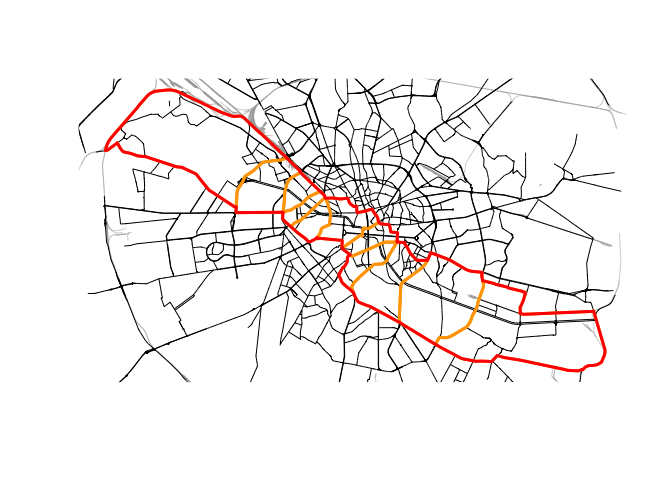
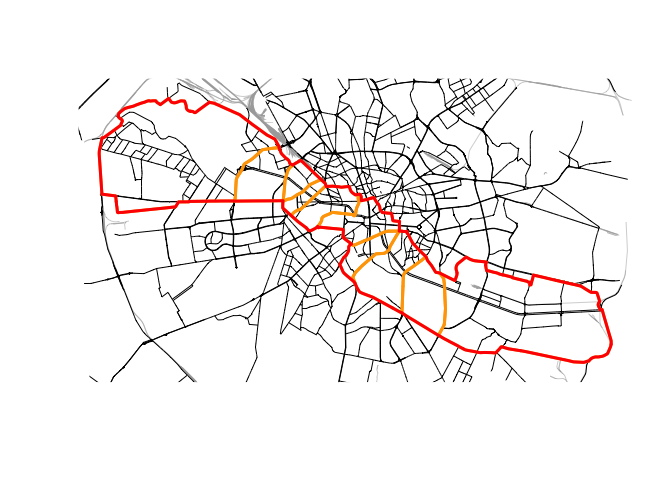
Update readme

Changed region(s): [[0.125, 0.1562, 0.9375, 0.8125], [0.25, 0.75, 0.3125, 0.8125], [0.1562, 0.7812, 0.1875, 0.8125]]

diff --git a/README.md b/README.md
@@ -22,21 +22,21 @@ Review](https://badges.ropensci.org/718_status.svg)](https://github.com/ropensci
 <!-- badges: end -->
 
 rcrisp provides tools to automate the morphological delineation of
-riverside urban areas—i.e., spaces where social, environmental and
-economic phenomena are assumed to be influenced by the presence of the
-river—following a method developed in Forgaci ([2018, pp.
-88–89](#ref-forgaci2018)).
+riverside urban areas—i.e., the spaces surrounding a river where social,
+environmental and economic phenomena are assumed to be influenced by the
+presence of the river—following a method developed in Forgaci ([2018,
+pp. 88–89](#ref-forgaci2018)).
 
 The method is based on the premise that analyses of riverside urban
 phenomena are often done without a clear and consistent spatial
 definition of the area of interest and that a morphological
 delineation—combining the natural terrain of the river valley and the
-configuration of the built urban fabric—can provide a more objective and
-comparable approach. Delineations following this morphological
-delineation method enable integrated local analyses, where data from
-different sources must be combined within a neutral spatial unit, as
-well as global cross-case analyses, which require a spatial unit that is
-comparable across different geographic contexts.
+configuration of the overlapping built urban fabric—can provide a more
+objective and comparable approach. Delineations following this
+morphological delineation method enable integrated local analyses, where
+data from different sources must be combined within a neutral spatial
+unit, as well as global cross-case analyses, which require a spatial
+unit that is comparable across different geographic contexts.
 
 The method proposes a hierarchical delineation of four spatial units:
 the river valley, the river corridor, the corridor segments and the